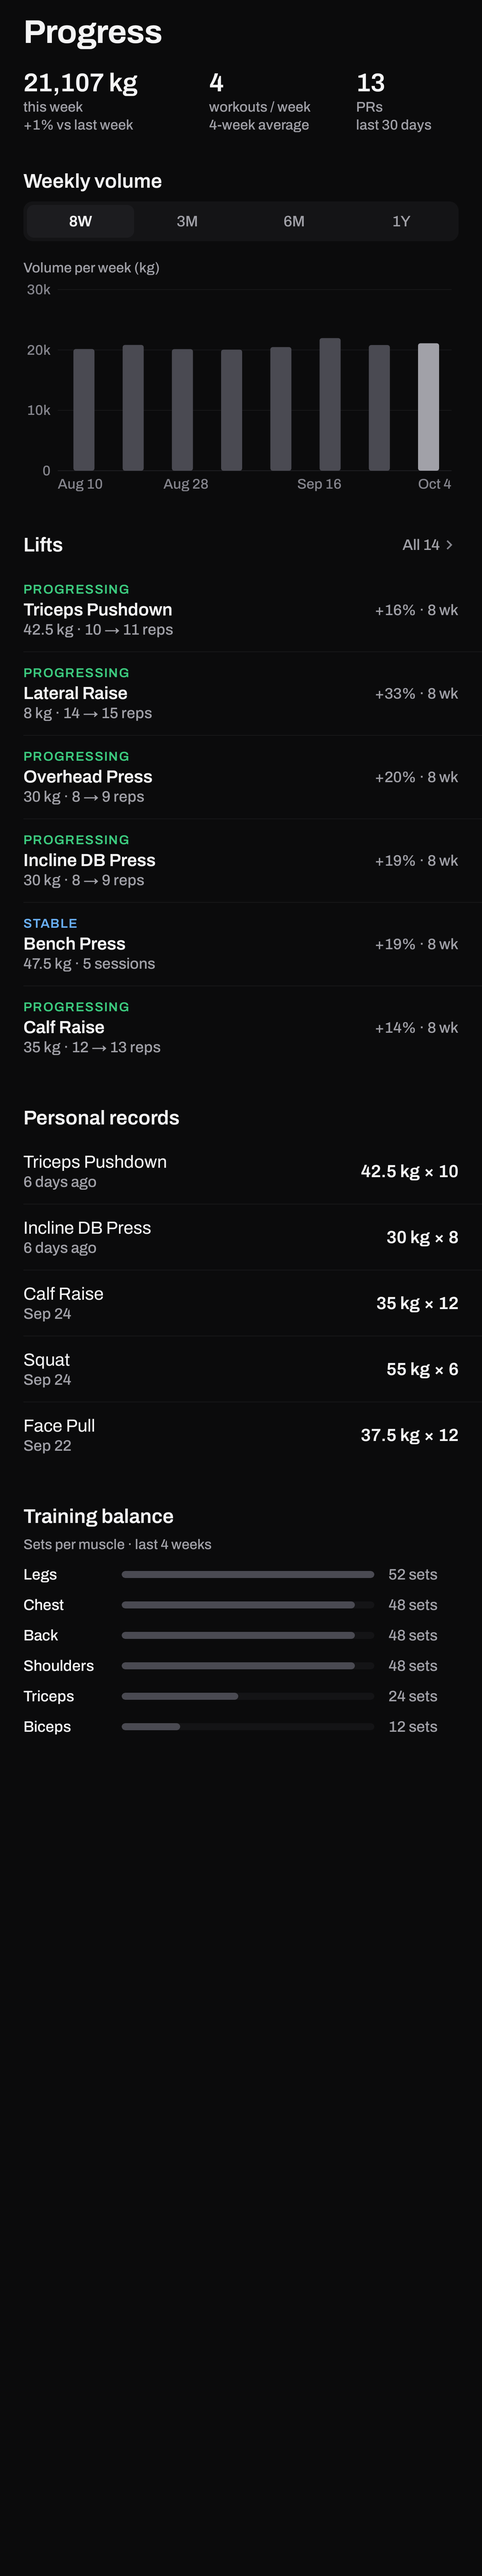
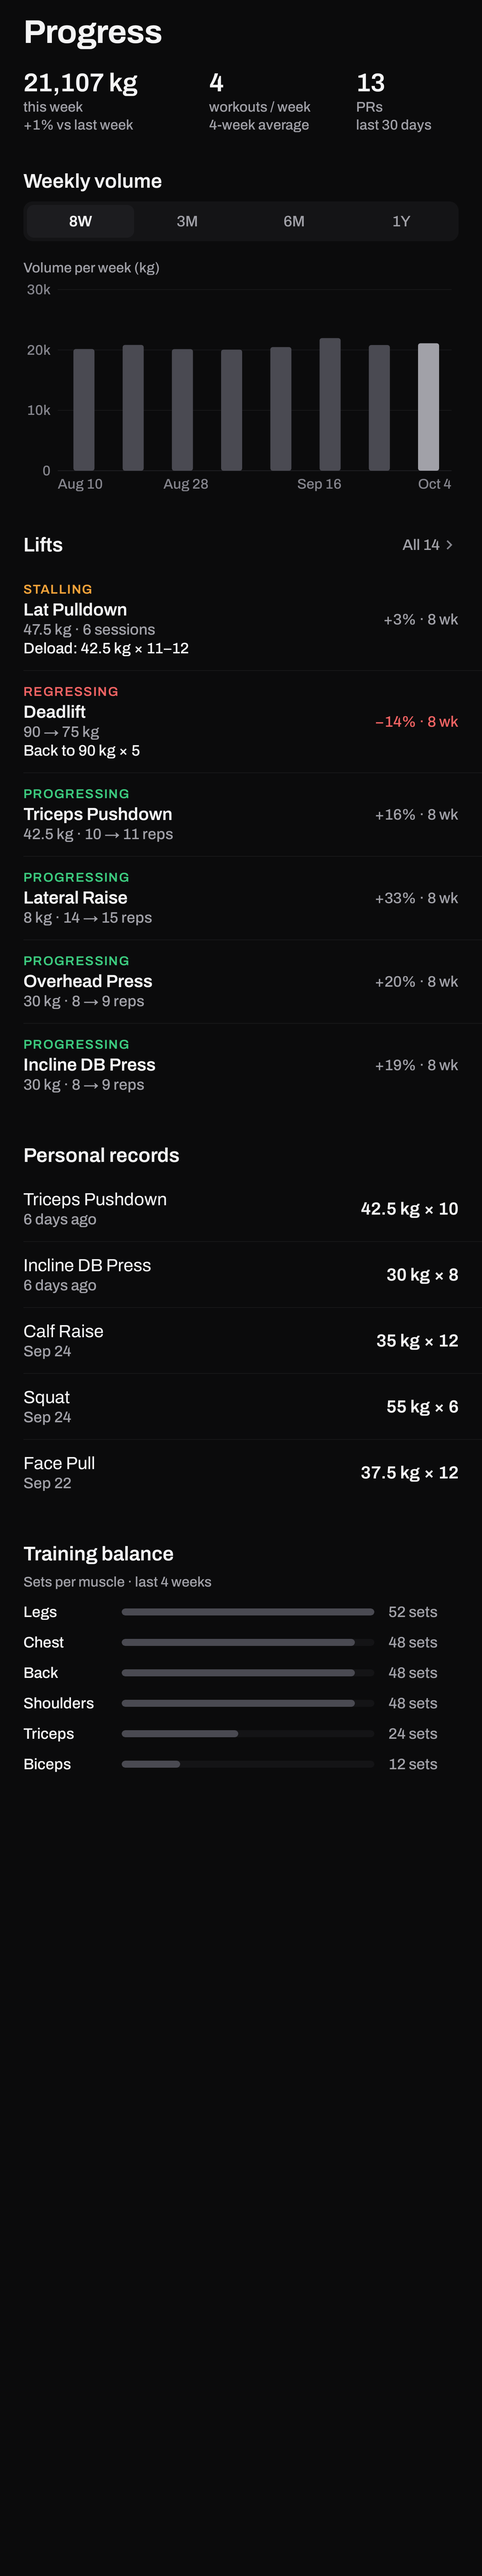
Progressive overload: flagged lifts first, concrete next actions
- A stalled lift at the top of its rep range now gets "Add 2.5 kg"
  instead of "+1 rep" clamped back to the set that stalled; the 10%
  deload is kept for stalls below the top of the range
- Progress lists stalling/regressing lifts trained in the last 3 weeks
  first, each with its next action as a third line; other rows stay terse
- Actions name the set to do: "Next: 50 kg × 8", "Deload: 42.5 kg × 11–12",
  "Back to 90 kg × 5" (Home and Progress share the wording)
- ListRow gains an optional detail line
- 123 tests pass (new: top-of-range stall, deload wording, ordering)

diff --git a/app/src/main/java/com/example/gymdiary3/presentation/progress/ProgressState.kt b/app/src/main/java/com/example/gymdiary3/presentation/progress/ProgressState.kt
@@ -1,6 +1,7 @@
 package com.example.gymdiary3.presentation.progress
 
 import com.example.gymdiary3.domain.model.SessionWithSets
+import com.example.gymdiary3.domain.progression.ExerciseProgression
 import com.example.gymdiary3.domain.progression.PrDetector
 import com.example.gymdiary3.domain.progression.ProgressionEngine
 import com.example.gymdiary3.domain.progression.ProgressionStatus
@@ -38,7 +39,9 @@ data class LiftRow(
     val status: ProgressionStatus,
     val state: String,
     val change: String?,
-    val changeTone: Tone
+    val changeTone: Tone,
+    /** What to do next session; set only when the lift needs a change (stalling or regressing). */
+    val action: String? = null
 )
 
 data class RecordRow(val exercise: String, val set: String, val whenLabel: String)
@@ -48,6 +51,8 @@ object ProgressStateBuilder {
 
     private const val TREND_DAYS = 56
     private const val BALANCE_DAYS = 28
+    /** A stalling or regressing lift trained within this window is listed first, with its next action. */
+    private const val ATTENTION_DAYS = 21
 
     fun build(
         sessions: List<SessionWithSets>,
@@ -86,9 +91,13 @@ object ProgressStateBuilder {
         val prs = PrDetector.events(allSets)
 
         val progressions = allSets.groupBy { it.exercise }.map { (name, sets) -> ProgressionEngine.analyze(name, sets, unit) }
+        fun needsAttention(p: ExerciseProgression) =
+            (p.status == ProgressionStatus.STALLING || p.status == ProgressionStatus.REGRESSING) &&
+                p.latest!!.date >= now - ATTENTION_DAYS * day
         val lifts = progressions
             .filter { it.latest != null }
-            .sortedByDescending { it.latest!!.date }
+            .sortedWith(compareByDescending<ExerciseProgression> { needsAttention(it) }
+                .thenByDescending { it.latest!!.date })
             .map { p ->
                 val window = p.sessions.filter { it.date >= now - TREND_DAYS * day }
                 val pct = if (window.size >= 2 && window.first().bestE1rm > 0) {
@@ -105,7 +114,8 @@ object ProgressStateBuilder {
                         pct >= 1.0 -> Tone.POSITIVE
                         pct <= -3.0 -> Tone.DANGER
                         else -> Tone.NEUTRAL
-                    }
+                    },
+                    action = row?.action?.takeIf { needsAttention(p) }
                 )
             }
 

diff --git a/app/src/test/java/com/example/gymdiary3/domain/progression/ProgressionEngineTest.kt b/app/src/test/java/com/example/gymdiary3/domain/progression/ProgressionEngineTest.kt
@@ -37,10 +37,22 @@ class ProgressionEngineTest {
     }
 
     @Test fun `same weight and reps for three sessions is stalling`() {
-        val p = analyze(session(1, 50.0, 8), session(2, 50.0, 8), session(3, 50.0, 8))
+        val p = analyze(session(1, 50.0, 7), session(2, 50.0, 7), session(3, 50.0, 7))
         assertEquals(ProgressionStatus.STALLING, p.status)
         assertEquals(3, p.streakAtWeight)
-        assertEquals("Try +1 rep before adding weight", p.recommendation?.action)
+        val rec = p.recommendation!!
+        assertEquals("Try +1 rep before adding weight", rec.action)
+        assertEquals(50.0, rec.weightKg, 0.0)
+        assertEquals(8, rec.repsLow)
+    }
+
+    @Test fun `stalling at the top of the rep range adds weight instead of repeating the set`() {
+        // 3 x 8 three times: 8 is the top of the inferred 6–8 range, so "+1 rep" would repeat 50 x 8.
+        val p = analyze(session(1, 50.0, 8), session(2, 50.0, 8), session(3, 50.0, 8))
+        assertEquals(ProgressionStatus.STALLING, p.status)
+        val rec = p.recommendation!!
+        assertEquals(52.5, rec.weightKg, 1e-9)
+        assertEquals("Add 2.5 kg", rec.action)
     }
 
     @Test fun `a plateau after an early rep gain is still stalling`() {
@@ -82,8 +94,8 @@ class ProgressionEngineTest {
         assertNull(rec.reason)
     }
 
-    @Test fun `five stalled sessions recommends a ten percent drop`() {
-        val p = analyze(*(1..5).map { session(it, 50.0, 8) }.toTypedArray())
+    @Test fun `five stalled sessions below the top of the range recommends a ten percent drop`() {
+        val p = analyze(*(1..5).map { session(it, 50.0, 7) }.toTypedArray())
         assertEquals(ProgressionStatus.STALLING, p.status)
         assertEquals(45.0, p.recommendation!!.weightKg, 1e-9)
     }

diff --git a/app/src/test/java/com/example/gymdiary3/presentation/progress/ProgressStateBuilderTest.kt b/app/src/test/java/com/example/gymdiary3/presentation/progress/ProgressStateBuilderTest.kt
@@ -1,0 +1,37 @@
+package com.example.gymdiary3.presentation.progress
+
+import com.example.gymdiary3.domain.progression.ProgressionStatus
+import com.example.gymdiary3.screenshots.SampleData
+import org.junit.Assert.assertEquals
+import org.junit.Assert.assertNotNull
+import org.junit.Assert.assertNull
+import org.junit.Assert.assertTrue
+import org.junit.Test
+
+class ProgressStateBuilderTest {
+
+    private val state = ProgressStateBuilder.build(SampleData.sessions, emptyList(), "kg", SampleData.now)
+    private val attention = setOf(ProgressionStatus.STALLING, ProgressionStatus.REGRESSING)
+
+    @Test
+    fun `lifts needing a change are listed first`() {
+        val firstCalm = state.lifts.indexOfFirst { it.status !in attention }
+        val lastAttention = state.lifts.indexOfLast { it.status in attention && it.action != null }
+        assertTrue("sample has a stalling and a regressing lift", lastAttention >= 1)
+        assertTrue("attention rows precede the rest", lastAttention < firstCalm)
+    }
+
+    @Test
+    fun `only attention rows carry an action`() {
+        // A stale stall (not trained for 3+ weeks) may have none; a progressing or stable lift never does.
+        state.lifts.filter { it.status !in attention }.forEach { assertNull(it.exercise, it.action) }
+        assertNotNull(state.lifts.first().action)
+    }
+
+    @Test
+    fun `sample stall and regression are the lifts flagged`() {
+        val flagged = state.lifts.filter { it.action != null }.associate { it.exercise to it.status }
+        assertEquals(ProgressionStatus.STALLING, flagged["Lat Pulldown"])
+        assertEquals(ProgressionStatus.REGRESSING, flagged["Deadlift"])
+    }
+}

diff --git a/app/src/main/java/com/example/gymdiary3/presentation/insight/InsightPresenter.kt b/app/src/main/java/com/example/gymdiary3/presentation/insight/InsightPresenter.kt
@@ -33,9 +33,11 @@ object InsightPresenter {
         val c = p.latest ?: return null
         val b = p.previous
         val rec = p.recommendation
-        val next = rec?.let {
-            if (it.weightKg > 0) "Next: ${Fmt.weight(it.weightKg, unit)} × ${it.repsLabel}" else "Next: ${it.repsLabel} reps"
+        // Every action is a set the lifter can perform, never an instruction to calculate.
+        val target = rec?.let {
+            if (it.weightKg > 0) "${Fmt.weightUnit(it.weightKg, unit)} × ${it.repsLabel}" else "${it.repsLabel} reps"
         }
+        val next = target?.let { "Next: $it" }
         val w = Fmt.weightUnit(c.topWeight, unit)
         return when (p.status) {
             ProgressionStatus.NEW -> null
@@ -53,13 +55,14 @@ object InsightPresenter {
                 InsightRow(
                     "Stalling", Tone.WARNING, p.exercise,
                     "$w · ${sessions(p.streakAtWeight)}",
-                    rec?.action, p.exercise, 80 + p.streakAtWeight
+                    if (rec != null && rec.weightKg > 0 && rec.weightKg < c.topWeight) "Deload: $target" else next,
+                    p.exercise, 80 + p.streakAtWeight
                 )
             ProgressionStatus.REGRESSING ->
                 InsightRow(
                     "Regressing", Tone.DANGER, p.exercise,
                     if (b != null) "${Fmt.weight(b.topWeight, unit)} → $w" else w,
-                    rec?.let { "Repeat ${Fmt.weightUnit(it.weightKg, unit)} × ${it.repsLabel}" },
+                    target?.let { "Back to $it" },
                     p.exercise, 75
                 )
         }

diff --git a/app/src/test/java/com/example/gymdiary3/presentation/insight/InsightPresenterTest.kt b/app/src/test/java/com/example/gymdiary3/presentation/insight/InsightPresenterTest.kt
@@ -15,12 +15,13 @@ class InsightPresenterTest {
     private val day = 24L * 60 * 60 * 1000
     private val now = 1_790_000_000_000L
 
+    /** [sessions] sessions of 3 × 7 at [weight]: below the top of the inferred 6–8 range. */
     private fun stalled(exercise: String, weight: Double, sessions: Int, daysAgo: Int = 1) =
         ProgressionEngine.analyze(exercise, (1..sessions).flatMap { s ->
             (1..3).map {
                 WorkoutSet(
                     timestamp = now - (daysAgo + (sessions - s) * 3) * day + it * 60_000L,
-                    muscle = "Back", exercise = exercise, setNumber = it, reps = 8,
+                    muscle = "Back", exercise = exercise, setNumber = it, reps = 7,
                     weight = weight, isAssisted = false, sessionId = s
                 )
             }
@@ -31,8 +32,13 @@ class InsightPresenterTest {
         assertEquals("Stalling", row.tag)
         assertEquals("Lat Pulldown", row.title)
         assertEquals("50 kg · 3 sessions", row.state)
-        assertEquals("Try +1 rep before adding weight", row.action)
+        assertEquals("Next: 50 kg × 8", row.action)
         assertEquals(Tone.WARNING, row.tone)
+    }
+
+    @Test fun `a long stall names the deload weight, not a percentage`() {
+        val row = InsightPresenter.fromProgression(stalled("Lat Pulldown", 50.0, 5), "kg")!!
+        assertEquals("Deload: 45 kg × 7–8", row.action)
     }
 
     @Test fun `plateau insights from the engine are not duplicated`() {

diff --git a/app/src/main/java/com/example/gymdiary3/domain/progression/ProgressionEngine.kt b/app/src/main/java/com/example/gymdiary3/domain/progression/ProgressionEngine.kt
@@ -180,7 +180,15 @@ object ProgressionEngine {
                 }
 
             ProgressionStatus.STALLING ->
-                if (streak >= STALL_SESSIONS + 2) {
+                if (c.topReps >= range.last) {
+                    // Stuck at the top of the range is a missed weight jump, not a plateau.
+                    val next = c.topWeight + increment(c.topWeight, unit)
+                    Recommendation(
+                        next, range.first, range.last.coerceAtMost(range.first + 2), workingSets,
+                        "Add ${formatIncrement(next - c.topWeight, unit)}",
+                        reason = "${c.topReps} reps for $streak sessions"
+                    )
+                } else if (streak >= STALL_SESSIONS + 2) {
                     val drop = roundToStep(c.topWeight * 0.9, unit)
                     Recommendation(
                         drop, range.last - 1, range.last, workingSets,

diff --git a/app/src/main/java/com/example/gymdiary3/ui/design/Layout.kt b/app/src/main/java/com/example/gymdiary3/ui/design/Layout.kt
@@ -158,6 +158,9 @@ fun ListRow(
     overline: String? = null,
     overlineColor: Color = Gd.TextMuted,
     titleStrong: Boolean = false,
+    /** Optional third line, e.g. the next action for a lift that needs one. */
+    detail: String? = null,
+    detailColor: Color = Gd.Text,
     leading: (@Composable () -> Unit)? = null,
     trailing: (@Composable () -> Unit)? = null,
     onClick: (() -> Unit)? = null,
@@ -195,6 +198,10 @@ fun ListRow(
             if (subtitle != null) {
                 Spacer(Modifier.height(2.dp))
                 Text(subtitle, style = GdType.label, color = Gd.TextMuted)
+            }
+            if (detail != null) {
+                Spacer(Modifier.height(2.dp))
+                Text(detail, style = GdType.label, color = detailColor)
             }
         }
         if (trailing != null) {

diff --git a/app/src/main/java/com/example/gymdiary3/screens/ProgressScreen.kt b/app/src/main/java/com/example/gymdiary3/screens/ProgressScreen.kt
@@ -126,6 +126,7 @@ fun ProgressContent(
                     overline = lift.status.label(),
                     overlineColor = lift.status.color(),
                     titleStrong = true,
+                    detail = lift.action,
                     trailing = {
                         // The status label already carries direction in colour; only a real drop repeats it.
                         lift.change?.let {
